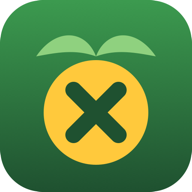
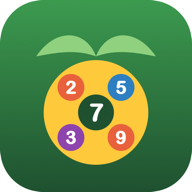
استبدال علامة الضرب في الأيقونة بفقاعات أرقام ملوّنة

Changed region(s): [[0.2812, 0.375, 0.7188, 0.8125]]

diff --git a/sw.js b/sw.js
@@ -1,6 +1,6 @@
 // يحفظ ملفات اللعبة على الجهاز لتعمل بدون إنترنت
 // غيّر رقم الإصدار عند تعديل أي ملف حتى يحدَّث الكاش
-const CACHE = 'jungle-hero-v11';
+const CACHE = 'jungle-hero-v12';
 const FILES = [
   './',
   'index.html',
